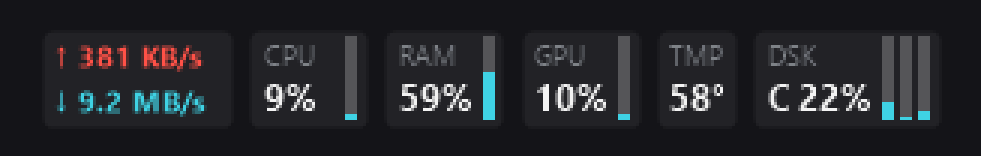
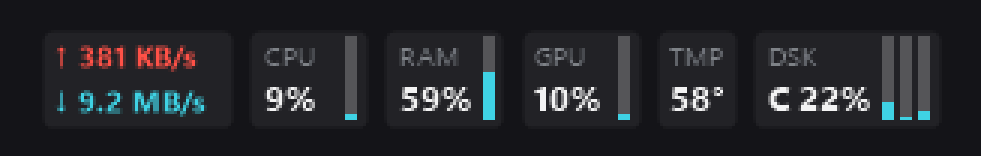
feat(overlay): elastic sparklines fill the avoidance corridor; Segoe UI Variable default
The fit ladder was quantized - full graphs (585px) or none (303px) - so any corridor between left a blank strip beside a degraded overlay. Level 0 is now elastic: sparklines squeeze continuously down to 40% of their width so the layout soaks up exactly the space available, and only below the floor do they drop before trailing modules do. The squeeze freezes with the level during drags. Default text now renders in Segoe UI Variable (Text for values, Small for sub-9pt labels) when installed - the Windows 11 face designed for these sizes - with classic Segoe UI standing in and explicit user font choices untouched. 110/110 tests; harness cap 468 now renders 468 (was 303).

diff --git a/Helpers/StackedFitPlanner.cs b/Helpers/StackedFitPlanner.cs
@@ -3,31 +3,40 @@ using System;
 namespace Kil0bitSystemMonitor.Helpers
 {
     /// <summary>
-    /// Decides how much of the stacked taskbar layout fits inside a width cap, shedding
-    /// content in fidelity order: level 0 draws everything, level 1 hides every sparkline
-    /// graph, and each level above 1 additionally hides one trailing module (so the leftmost
-    /// modules — network and CPU in the default order — survive longest).
+    /// Decides how much of the stacked taskbar layout fits inside a width cap. Level 0 is
+    /// elastic: sparklines render anywhere between full width and <see cref="MinGraphScale"/>
+    /// of it, squeezing to soak up exactly the space available. Below that the ladder is
+    /// discrete — level 1 hides every sparkline, and each level above 1 additionally hides
+    /// one trailing module (so the leftmost modules — network and CPU in the default order —
+    /// survive longest).
     ///
     /// <para>
     /// Pure arithmetic, no rendering types: the overlay measures, this ranks. Restoring to a
     /// richer level demands the cap fit with extra slack, because the obstacle (the centered
     /// Start button) moves in ~22px steps as taskbar icons come and go — without hysteresis a
-    /// boundary-straddling width would flap between levels once per tick.
+    /// boundary-straddling width would flap between levels once per tick. Scale changes
+    /// within level 0 carry no such risk: they are continuous, a few pixels per step.
     /// </para>
     /// </summary>
     public static class StackedFitPlanner
     {
+        /// <summary>Smallest factor sparklines may squeeze to before being dropped entirely.</summary>
+        public const float MinGraphScale = 0.4f;
+
         public sealed class Plan
         {
-            /// <summary>0 = full; 1 = graphs hidden; 1+k = graphs hidden and k trailing modules hidden.</summary>
+            /// <summary>0 = full (graphs, possibly squeezed); 1 = graphs hidden; 1+k = k trailing modules hidden too.</summary>
             public int Level { get; init; }
 
             public bool ShowGraphs { get; init; }
 
+            /// <summary>1 = full-width sparklines, down to <see cref="MinGraphScale"/> when squeezed.</summary>
+            public float GraphScale { get; init; } = 1f;
+
             /// <summary>How many leading columns to draw.</summary>
             public int VisibleColumns { get; init; }
 
-            /// <summary>Total layer width at this level, chrome included.</summary>
+            /// <summary>Total layer width at this level and scale, chrome included.</summary>
             public float Width { get; init; }
 
             /// <summary>False when even the most degraded level exceeds the cap.</summary>
@@ -48,40 +57,56 @@ namespace Kil0bitSystemMonitor.Helpers
             int maxLevel = Math.Max(0, n); // level n keeps only the first column
 
             if (cap is not float limit || n == 0)
-                return At(columnWidths, graphParts, columnGap, chrome, 0, fits: true);
+                return At(columnWidths, graphParts, columnGap, chrome, 0, 1f, fits: true);
+
+            float w1 = WidthAt(columnWidths, graphParts, columnGap, chrome, 1);
+            float parts = WidthAt(columnWidths, graphParts, columnGap, chrome, 0) - w1;
 
             int prev = Math.Clamp(previousLevel, 0, maxLevel);
+
+            bool Fittable(int level, float within) => level == 0
+                ? within >= w1 + MinGraphScale * parts
+                : WidthAt(columnWidths, graphParts, columnGap, chrome, level) <= within;
 
             int? FirstFitting(float within)
             {
                 for (int l = 0; l <= maxLevel; l++)
-                    if (WidthAt(columnWidths, graphParts, columnGap, chrome, l) <= within) return l;
+                    if (Fittable(l, within)) return l;
                 return null;
             }
 
             int? baseline = FirstFitting(limit);
             if (baseline == null)
-                return At(columnWidths, graphParts, columnGap, chrome, maxLevel, fits: false);
+                return At(columnWidths, graphParts, columnGap, chrome, maxLevel, 1f, fits: false);
 
             // Degrading (or holding) is immediate; restoring requires slack-clearance.
-            if (baseline.Value >= prev)
-                return At(columnWidths, graphParts, columnGap, chrome, baseline.Value, fits: true);
+            int chosen;
+            if (baseline.Value >= prev) chosen = baseline.Value;
+            else
+            {
+                int? restore = FirstFitting(limit - restoreSlack);
+                chosen = restore != null && restore.Value < prev ? restore.Value : prev;
+            }
 
-            int? restore = FirstFitting(limit - restoreSlack);
-            int chosen = restore != null && restore.Value < prev ? restore.Value : prev;
-            return At(columnWidths, graphParts, columnGap, chrome, chosen, fits: true);
+            if (chosen == 0)
+            {
+                float graphScale = parts > 0 ? Math.Clamp((limit - w1) / parts, MinGraphScale, 1f) : 1f;
+                return At(columnWidths, graphParts, columnGap, chrome, 0, graphScale, fits: true);
+            }
+            return At(columnWidths, graphParts, columnGap, chrome, chosen, 1f, fits: true);
         }
 
         /// <summary>
-        /// A plan pinned at <paramref name="level"/> (clamped to the valid range). Used while
-        /// the user is dragging the overlay: re-measuring obstacles mid-gesture would make
-        /// the window resize and slide under the cursor, fighting the drag.
+        /// A plan pinned at <paramref name="level"/> and <paramref name="graphScale"/>, both
+        /// clamped. Used while the user is dragging the overlay: re-measuring obstacles
+        /// mid-gesture would make the window resize and slide under the cursor.
         /// </summary>
         public static Plan FitAtLevel(float[] columnWidths, float[] graphParts, float columnGap,
-                                      float chrome, int level)
+                                      float chrome, int level, float graphScale = 1f)
         {
             int clamped = Math.Clamp(level, 0, Math.Max(0, columnWidths.Length));
-            return At(columnWidths, graphParts, columnGap, chrome, clamped, fits: true);
+            float scale = clamped == 0 ? Math.Clamp(graphScale, MinGraphScale, 1f) : 1f;
+            return At(columnWidths, graphParts, columnGap, chrome, clamped, scale, fits: true);
         }
 
         /// <summary>
@@ -119,13 +144,24 @@ namespace Kil0bitSystemMonitor.Helpers
             return sum;
         }
 
-        private static Plan At(float[] widths, float[] graphParts, float gap, float chrome, int level, bool fits) => new()
+        private static Plan At(float[] widths, float[] graphParts, float gap, float chrome,
+                               int level, float graphScale, bool fits)
         {
-            Level = level,
-            ShowGraphs = level == 0,
-            VisibleColumns = widths.Length - Math.Max(0, level - 1),
-            Width = WidthAt(widths, graphParts, gap, chrome, level),
-            Fits = fits,
-        };
+            float w = WidthAt(widths, graphParts, gap, chrome, level);
+            if (level == 0 && graphScale < 1f)
+            {
+                float w1 = WidthAt(widths, graphParts, gap, chrome, 1);
+                w = w1 + graphScale * (w - w1);
+            }
+            return new()
+            {
+                Level = level,
+                ShowGraphs = level == 0,
+                GraphScale = level == 0 ? graphScale : 1f,
+                VisibleColumns = widths.Length - Math.Max(0, level - 1),
+                Width = w,
+                Fits = fits,
+            };
+        }
     }
 }

diff --git a/OverlayWindow.cs b/OverlayWindow.cs
@@ -41,6 +41,7 @@ namespace Kil0bitSystemMonitor
         private System.Windows.Threading.DispatcherTimer? _hoverDwellTimer;
         private bool _shellFullscreen = false;
         private int _stackedFitLevel;   // StackedFitPlanner hysteresis state
+        private float _stackedGraphScale = 1f; // sparkline squeeze carried across ticks (frozen during drag)
         private bool _inSizeMove;       // inside the native move loop: avoidance must not fight the drag
         private float? _testWidthCapPx = null; // render-harness override (reflection) for the Start-menu width cap
         private bool _appbarRegistered = false;
@@ -580,7 +581,8 @@ namespace Kil0bitSystemMonitor
             float textScale = (float)_config.Config.ScaleFactor;
             bool pods = _config.Config.ShowPods;
             string fontName = _config.Config.FontFamily;
-            if (string.IsNullOrEmpty(fontName) || fontName == "Default") fontName = "Segoe UI";
+            bool defaultFont = string.IsNullOrEmpty(fontName) || fontName == "Default" || fontName == "Segoe UI";
+            if (defaultFont) { DetectDefaultFonts(); fontName = _defaultValueFont!; }
             System.Drawing.FontStyle style = _config.Config.IsTextBold ? System.Drawing.FontStyle.Bold : System.Drawing.FontStyle.Regular;
             Font font = GetCachedFont(fontName, 8.5f * textScale, style);
 
@@ -736,10 +738,11 @@ namespace Kil0bitSystemMonitor
             float textScale = (float)_config.Config.ScaleFactor;
             bool pods = _config.Config.ShowPods;
             string fontName = _config.Config.FontFamily;
-            if (string.IsNullOrEmpty(fontName) || fontName == "Default") fontName = "Segoe UI";
+            bool defaultFont = string.IsNullOrEmpty(fontName) || fontName == "Default" || fontName == "Segoe UI";
+            if (defaultFont) { DetectDefaultFonts(); fontName = _defaultValueFont!; }
             var valueStyle = _config.Config.IsTextBold ? System.Drawing.FontStyle.Bold : System.Drawing.FontStyle.Regular;
 
-            Font labelFont = GetCachedFont(fontName, 6.6f * textScale, System.Drawing.FontStyle.Regular);
+            Font labelFont = GetCachedFont(defaultFont ? _defaultLabelFont! : fontName, 6.6f * textScale, System.Drawing.FontStyle.Regular);
             Font valueFont = GetCachedFont(fontName, 9.0f * textScale, valueStyle);
             Font netFont = GetCachedFont(fontName, 7.6f * textScale, valueStyle);
 
@@ -812,7 +815,7 @@ namespace Kil0bitSystemMonitor
             }
 
             var plan = frozen
-                ? StackedFitPlanner.FitAtLevel(widths, graphParts, podGap, 4 * scale, _stackedFitLevel)
+                ? StackedFitPlanner.FitAtLevel(widths, graphParts, podGap, 4 * scale, _stackedFitLevel, _stackedGraphScale)
                 : StackedFitPlanner.Fit(widths, graphParts, podGap, 4 * scale, cap, _stackedFitLevel, 24 * scale);
 
             // When modules must hide, re-plan with room for a trailing "⋯" marker so elision
@@ -827,9 +830,12 @@ namespace Kil0bitSystemMonitor
             }
             if (plan.VisibleColumns >= columns.Count) ellipsisW = 0f;
             _stackedFitLevel = plan.Level;
+            _stackedGraphScale = plan.GraphScale;
             bool drawGraphs = graphs && plan.ShowGraphs;
             if (!plan.ShowGraphs)
                 for (int i = 0; i < widths.Length; i++) widths[i] -= graphParts[i];
+            else if (plan.GraphScale < 1f)
+                for (int i = 0; i < widths.Length; i++) widths[i] -= graphParts[i] * (1f - plan.GraphScale);
 
             int w = (int)Math.Max(20, plan.Width + ellipsisW);
 
@@ -873,9 +879,10 @@ namespace Kil0bitSystemMonitor
                     {
                         float gy = (h - graphH) / 2f;
                         float max = col.Top?.GraphMax ?? col.Bottom?.GraphMax ?? 1f;
+                        float gwDraw = Math.Max(3 * scale, graphParts[i] * plan.GraphScale - gap);
                         DrawMirroredSparkline(_offscreenGraphics, col.Top?.History, col.Bottom?.History,
-                            contentX, gy, graphW, graphH, StackedUpBrush, StackedGraphBrush, max);
-                        contentX += graphW + gap;
+                            contentX, gy, gwDraw, graphH, StackedUpBrush, StackedGraphBrush, max);
+                        contentX += gwDraw + gap;
                     }
 
                     // A single enabled direction centres alone; two stack around the midline.
@@ -901,8 +908,9 @@ namespace Kil0bitSystemMonitor
                     if (drawGraphs && item.History != null)
                     {
                         float gy = (h - graphH) / 2f;
-                        DrawSparklineRect(_offscreenGraphics, item.History, item.GraphMax, contentX, gy, graphW, graphH, StackedGraphBrush);
-                        contentX += graphW + gap;
+                        float gwDraw = Math.Max(3 * scale, graphParts[i] * plan.GraphScale - gap);
+                        DrawSparklineRect(_offscreenGraphics, item.History, item.GraphMax, contentX, gy, gwDraw, graphH, StackedGraphBrush);
+                        contentX += gwDraw + gap;
                     }
 
                     float ty = (h - textBlockH) / 2f;
@@ -1294,6 +1302,32 @@ namespace Kil0bitSystemMonitor
         private void RenderBackground(Graphics g, int w, int h, float s) { if (!_config.Config.ShowBackground || _cachedBgBrush == null) return; using (var p = CreateRoundedRectPath(0, 0, w, h, (int)(12 * s))) g.FillPath(_cachedBgBrush, p); }
         private void RenderHoverEffect(Graphics g, int w, int h, float s) { if (!_isHovered || _cachedHoverBrush == null || _cachedHoverPen == null) return; using (var p = CreateRoundedRectPath(0, 0, w - 1, h - 1, (int)(12 * s))) { g.FillPath(_cachedHoverBrush, p); g.DrawPath(_cachedHoverPen, p); } }
         private GraphicsPath CreateRoundedRectPath(int x, int y, int w, int h, int r) { GraphicsPath p = new GraphicsPath(); if (r <= 0) { p.AddRectangle(new Rectangle(x, y, w, h)); return p; } p.AddArc(x, y, r, r, 180, 90); p.AddArc(x + w - r, y, r, r, 270, 90); p.AddArc(x + w - r, y + h - r, r, r, 0, 90); p.AddArc(x, y + h - r, r, r, 90, 90); p.CloseFigure(); return p; }
+        // Windows 11's Segoe UI Variable renders noticeably better at taskbar sizes than
+        // classic Segoe UI — "Text" is drawn for body sizes, "Small" for the sub-9pt labels
+        // (higher x-height, opened counters). Detected once per process; classic Segoe UI
+        // stands in when the variable family is absent, and an explicit user font choice
+        // always wins.
+        private static string? _defaultValueFont;
+        private static string? _defaultLabelFont;
+        private static void DetectDefaultFonts()
+        {
+            if (_defaultValueFont != null) return;
+            string value = "Segoe UI", label = "Segoe UI";
+            try
+            {
+                using var installed = new System.Drawing.Text.InstalledFontCollection();
+                foreach (var family in installed.Families)
+                {
+                    if (family.Name == "Segoe UI Variable Text") value = family.Name;
+                    else if (family.Name == "Segoe UI Variable Small") label = family.Name;
+                }
+                if (label == "Segoe UI" && value != "Segoe UI") label = value;
+            }
+            catch { /* fonts not enumerable: classic Segoe UI stands */ }
+            _defaultValueFont = value;
+            _defaultLabelFont = label;
+        }
+
         private Font GetCachedFont(string f, float s, System.Drawing.FontStyle st) { string k = $"{f}_{s}_{st}"; if (!_fontCache.TryGetValue(k, out var font)) { font = new Font(f, s, st); _fontCache[k] = font; } return font; }
         private void UpdateCachedColors()
         {

diff --git a/tests/Kil0bitSystemMonitor.Tests/StackedFitPlannerTests.cs b/tests/Kil0bitSystemMonitor.Tests/StackedFitPlannerTests.cs
@@ -70,13 +70,36 @@ namespace Kil0bitSystemMonitor.Tests
         [Fact]
         public void Restore_needs_slack_so_the_boundary_cannot_flap()
         {
-            // Cap 290 fits level 0 (284) but not with the 24px slack (284 > 266): stay put.
-            var held = Fit(cap: 290f, prev: 1);
+            // Squeezed level 0 becomes reachable at 224 (184 + 0.4*100); restoring on top of
+            // that demands the 24px slack: 240-24=216 misses it, 260-24=236 clears it.
+            var held = Fit(cap: 240f, prev: 1);
             Assert.Equal(1, held.Level);
 
-            // Cap 320 clears the slack (284 <= 296): restore to full.
-            var restored = Fit(cap: 320f, prev: 1);
+            var restored = Fit(cap: 260f, prev: 1);
             Assert.Equal(0, restored.Level);
+            Assert.Equal(0.76, restored.GraphScale, 2);
+        }
+
+        [Fact]
+        public void Graphs_squeeze_to_soak_up_the_exact_space_available()
+        {
+            // Between full (284) and graphless (184) the sparklines scale continuously, so
+            // the plan's width equals the cap instead of leaving a blank strip beside it.
+            var p = Fit(cap: 250f);
+            Assert.Equal(0, p.Level);
+            Assert.True(p.ShowGraphs);
+            Assert.Equal(0.66, p.GraphScale, 2);
+            Assert.Equal(250.0, p.Width, 1);
+        }
+
+        [Fact]
+        public void Graphs_drop_only_below_the_minimum_squeeze()
+        {
+            // 184 + 0.4*100 = 224 is the squeeze floor; under it the graphs go entirely.
+            var p = Fit(cap: 220f);
+            Assert.Equal(1, p.Level);
+            Assert.False(p.ShowGraphs);
+            Assert.Equal(184f, p.Width);
         }
 
         [Fact]

diff --git a/GUIDE.md b/GUIDE.md
@@ -40,10 +40,11 @@ A centred Windows 11 taskbar moves its Start button **left** as apps open, so a 
 would eventually sit underneath it. The stacked overlay watches the taskbar's own buttons
 (widgets, Start, tray) and stays inside the free corridor between them — **sliding left into
 unused space first**, so it keeps every module whenever the corridor has room, and drifting
-back to your chosen spot as apps close. Only when the whole corridor genuinely cannot hold
-everything does it shed content: sparkline graphs first, then trailing modules one by one —
-network and CPU survive longest — with a small **⋯** marker showing that modules are elided
-rather than missing. Everything hidden stays one hover or click away in the panels. Turn
+back to your chosen spot as apps close. When the corridor tightens, the sparklines squeeze
+down first (to 40% of their width) so the layout always fills the available space exactly;
+only below that do they disappear, then trailing modules one by one — network and CPU
+survive longest — with a small **⋯** marker showing that modules are elided rather than
+missing. Everything hidden stays one hover or click away in the panels. Turn
 this off with **Avoid Start Menu** in **Appearance**.
 
 ### 📉 Live Graphs
@@ -130,7 +131,9 @@ Open the **Settings Window** to customize your experience:
 
 ### 🎨 Appearance & Design
 - **Accent Color**: Pick a color that matches your Windows theme.
-- **Font Selection**: Choose from high-legibility fonts (Segoe UI, Outfit, Inter).
+- **Font Selection**: Choose from high-legibility fonts (Segoe UI, Outfit, Inter). On
+  Windows 11 the default renders with **Segoe UI Variable** — Text for values, Small for the
+  tiny labels — the face designed for exactly these sizes.
 - **Design Mode**: Toggle between **Standard** and **Compact** modes for different levels of detail.
 
 ---

diff --git a/README.md b/README.md
@@ -72,7 +72,7 @@ Sensor availability may vary depending on the installed hardware, device drivers
 * Lock the overlay position
 * Keep the overlay above other windows
 * Automatically hide it during full-screen applications
-* Auto-avoid the Start button: the stacked overlay slides into free taskbar space first, and only then narrows itself (graphs first, then trailing modules, with a ⋯ elision marker) so the centred Windows 11 Start button, widgets button and tray never end up underneath it
+* Auto-avoid the Start button: the stacked overlay slides into free taskbar space, squeezes its sparklines to fill the remaining corridor exactly, and only then sheds content (graphs, then trailing modules behind a ⋯ marker) so the centred Windows 11 Start button, widgets button and tray never end up underneath it
 
 ### Customization
 
